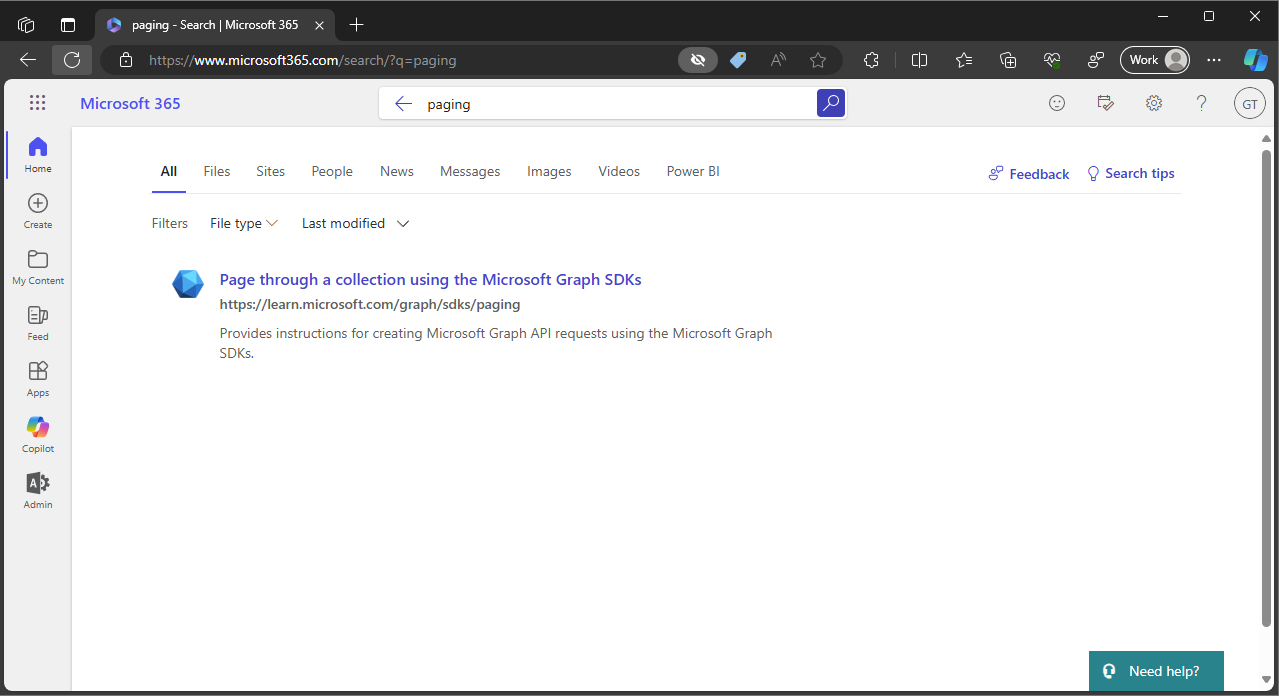
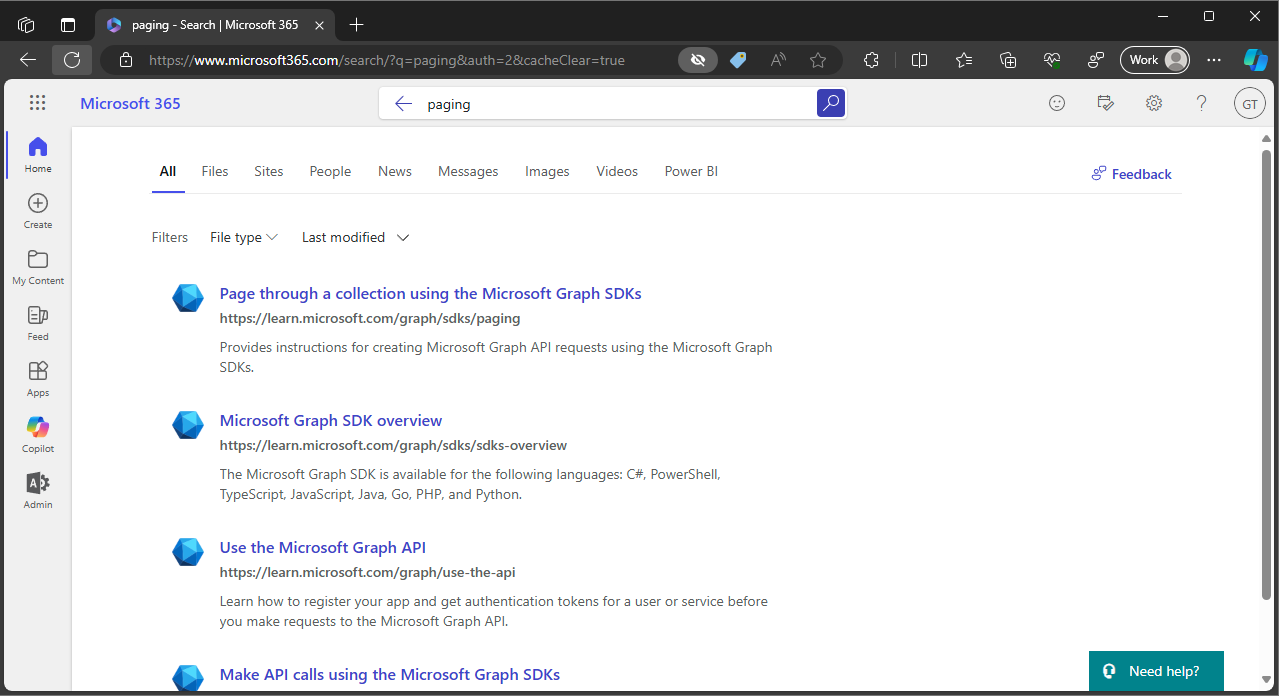
WIP

diff --git a/README.md b/README.md
@@ -1,0 +1,211 @@
+# Ingest markdown content from a custom API using C#, .NET and Teams Toolkit for Visual Studio
+
+## Summary
+
+This sample project uses Teams Toolkit for Visual Studio to simplify the process of creating a [Microsoft Graph connector](https://learn.microsoft.com/graph/connecting-external-content-connectors-overview) that ingests data from a custom API to Microsoft Graph. It provides an end to end example of creating the connector, ingesting content and refreshing the ingested content on a schedule. It also includes the [simplified admin experience](https://learn.microsoft.com/graph/connecting-external-content-deploy-teams) which means that admins can toggle the connector on and off from the Microsoft Teams admin center.
+
+![Markdown content from custom API displayed in Microsoft Search](./assets/content.png)
+
+## Contributors
+
+- [Waldek Mastykarz](https://github.com/waldekmastykarz)
+- [Garry Trinder](https://github.com/garrytrinder)
+
+## Version History
+
+Version|Date|Comments
+-------|----|--------
+1.0|May 1, 2023|Initial release
+
+## Prerequisites
+
+- [Teams Toolkit for Visual Studio](https://marketplace.visualstudio.com/items?itemName=TeamsDevApp.ms-teams-vscode-extension)
+- [Microsoft 365 Developer tenant](https://developer.microsoft.com/microsoft-365/dev-program) with [uploading custom apps enabled](https://learn.microsoft.com/microsoftteams/platform/m365-apps/prerequisites#prepare-a-developer-tenant-for-testing)
+
+## Minimal path to awesome
+
+## Simulated debugging with Dev Proxy
+
+### 1. Project setup
+
+- Clone repo
+
+### 2. Dev Proxy setup
+
+- [Install](https://learn.microsoft.com/microsoft-cloud/dev/dev-proxy/get-started#install-dev-proxy) Dev Proxy
+
+### 3. Start a debug session
+
+- Open the solution in Visual Studio
+- Press <kbd>F5</kbd> to start a debug session
+- Wait for the Azure Functions host to start (you will see errors in the debug terminal, this is expected)
+
+### 4. Start Dev Proxy and simulate webhook notification
+
+- Wait for the Azure Functions host to start (you will see errors in the debug terminal, this is expected)
+- Open a terminal, run `devproxy` to start Dev Proxy
+- Press <kbd>w</kbd> to simulate a webhook notification from Microsoft 365
+
+## Debug against a real Microsoft 365 tenant
+
+### 1. Project setup
+
+- Clone repo
+- Open solution in Visual Studio
+- Copy the contents of `env\samples` folder to `env`
+
+### 2. Create a Dev Tunnel
+
+- On the menu bar in Visual Studio, open the `View` menu.
+- Expand the `Other Windows` menu and select `Dev Tunnels`
+- In the Dev Tunnels panel, select `+` to open a dialog to create a new tunnel
+- In the dialog, enter the following and select `OK`
+  - **Account**: Use any Microsoft Entra ID, Microsoft, or GitHub account
+  - **Name**: GraphDocsConnector
+  - **Tunnel Type**: Persistent
+  - **Access**: Public
+- In the confirmation prompt, select `OK`
+
+### 3. Prepare Teams App Dependencies
+
+- In Solution Explorer, right-click the `GraphDocsConnector` Azure Functions project
+- Expand the `Teams Toolkit` menu and select `Prepare Teams App Dependencies`
+- When prompted, sign in to your Microsoft 365 tenant
+- Wait for all tasks to complete
+
+### 4. Start a debug session
+
+- Press <kbd>F5</kbd> to start a debug session
+- Wait for the Azure Functions host in the terminal window to start (you will see errors in the debug terminal, this is expected)
+
+### 5. Start Dev Proxy
+
+- Open a terminal, run `devproxy --config-file docuemntsapirc.json` to start Dev Proxy
+
+### 6. Enable Graph connector
+
+- In a web browser, navigate to the [Microsoft Teams Admin Center](https://admin.teams.microsoft.com)
+- Open the [Manage apps](https://admin.teams.microsoft.com/policies/manage-apps) section
+- In the table displaying `All apps`, search for `GraphDocsConnector-local`
+- Select the app in the table to open the app details page
+- Select `Publish` and confirm the prompt. You will been taken back to the `All apps` page and a confirmation banner will be displayed
+- Search for `GraphDocsConnector-local` and open the app details page
+- Select the `Graph Connector` tab
+- A banner will be displayed. Click `Grant permissions`, this will open a permissions consent page in a pop-up window. Confirm the permissions. This will automatically toggle the connection status to on and start the setup process which includes:
+  - creating an external connection
+  - provisioning the schema
+  - importing external content
+
+The process will take several minutes in total. During this time you may see an error message on this page, however this can be ignored and you can refresh the page to check on the status.
+
+> TIP: To monitor the activity check out the output of the Azure Functions host in the terminal window. You'll see the status of the different activities as they are completed.
+
+When the process is complete you will see a table confirming that the connection has been successful.
+
+![Simplified admin experience in Microsoft Teams admin center](./assets/tac.png)
+
+### 7. Include data in results
+
+- In the web browser navigate to the [Microsoft 365 admin center](https://admin.microsoft.com/)
+- From the side navigation, open [Settings > Search & Intelligence](https://admin.microsoft.com/?source=applauncher#/MicrosoftSearch)
+- On the page, navigate to the [Data Sources](https://admin.microsoft.com/?source=applauncher#/MicrosoftSearch/connectors) tab
+- A table will display available connections. In the **Required actions** column, select the link to **Include Connector Results** and confirm the prompt
+
+### 8. Refresh the Result Type template
+
+> There is a known issue whereby applying a result type programmatically results in a card that does not display correctly, so we need to apply the card in the user interface
+
+- In Visual Studio, open the `resultLayout.json` file and copy its contents to clipboard (<kdb>CTRL</kdb>+ <kbd>A</kbd> then <kbd>CTRL</kbd> + <kbd>C</kbd> on Windows, <kbd>CMD</kbd> + <kbd>A</kbd> then <kbd>CMD</kbd> + <kbd>C</kbd> on macOS)
+- In the web browser, in the Microsoft 365 admin center, navigate to the [Settings > Search & Intelligence](https://admin.microsoft.com/?source=applauncher#/MicrosoftSearch) area
+- Activate the [Customizations](https://admin.microsoft.com/?source=applauncher#/MicrosoftSearch/connectors) tab
+- Select the [Result Types](https://admin.microsoft.com/?source=applauncher#/MicrosoftSearch/resulttypes) page
+- In the table, check the box to select the `msgraphdocs` result type
+- On the command bar, select `Edit` to open the `msgraphdocs` side panel
+- In the `Result layout` section, underneath the text field, select `Edit` to open the `Design your layout` panel.
+- In the `Paste the JSON script that you created with Layout Designer` field, replace the contents of the field by pasting the contents of your clipboard (<kbd>CTRL</kbd> + <kbd>V</kbd> on Windows, <kbd>CMD</kbd> + <kbd>V</kbd> on macOS)
+- Confirm the changes by selecting `Next`
+- In the `Review the result type settings` panel, select `Update Result Type`
+- Wait a few minutes for the changes to be applied
+
+### 8. Test search
+
+- Navigate to [Microsoft365.com](https://www.microsoft365.com)
+- Enter `paging` into the search bar
+- Items will be shown from the data ingested by the Graph connector in the search results
+
+![Markdown content from custom API displayed in Microsoft Search](./assets/content.png)
+
+## Deploy to Azure
+
+### 1. Update custom API endpoint
+
+- Open Visual Studio
+- In `env` folder, open `.env.dev`
+- Update the `DOCUMENTS_API_URL` and `DOCUMENTS_API_SCOPES` with the details of your custom API
+
+### 2. Provision resources
+
+- In Solution Explorer, right-click the `GraphDocsConnector` Azure Functions project
+- Expand the `Teams Toolkit` menu and select `Provision in the cloud...`
+- In the `Provision` dialog, enter the following and select `Provision`
+  - **Account**: Select an account which is associated with an active subscription
+  - **Subscription**: Select an active subscription from the list
+  - **Resource group**: Select existing group from the list, or create a new group
+  - **Region**: Select a region suitable for your location from the list
+- In the warning prompt, select `Provision` to provision the resources
+
+### 3. Deploy code
+
+- In Solution Explorer, right-click the `GraphDocsConnector` Azure Functions project
+- Expand the `Teams Toolkit` menu and select `Deploy to the Cloud`
+- In the warning prompt, select `Deploy` to deploy the function code
+
+### 4. Enable Graph connector
+
+- In a web browser, navigate to the [Microsoft Teams Admin Center](https://admin.teams.microsoft.com)
+- Open the [Manage apps](https://admin.teams.microsoft.com/policies/manage-apps) section
+- In the table displaying `All apps`, search for `GraphDocsConnector-dev`
+- Select the app in the table to open the app details page
+- Select `Publish` and confirm the prompt. You will been taken back to the `All apps` page and a confirmation banner will be displayed
+- Search for `GraphDocsConnector-dev` and open the app details page
+- Select the `Graph Connector` tab
+- A banner will be displayed. Click `Grant permissions`, this will open a permissions consent page in a pop-up window. Confirm the permissions. This will automatically toggle the connection status to on and start the setup process which includes:
+  - creating an external connection
+  - provisioning the schema
+  - importing external content
+
+The process will take several minutes in total. During this time you may see an error message on this page, however this can be ignored and you can refresh the page to check on the status.
+
+When the process is complete you will see a table confirming that the connection has been successful.
+
+## Features
+
+This sample shows how to ingest data from a custom API into your Microsoft 365 tenant.
+
+The sample illustrates the following concepts:
+
+- simplify debugging and provisioning of resources with Teams Toolkit for Visual Studio
+- support the ability to toggle the connection status in the Microsoft Teams admin center
+- create external connection schema
+- support full ingestion of data
+- support incremental ingestion of data
+- support scheduled ingestion of data
+- support on-demand ingestion of data
+- support for removing deleted data
+- visualize the external content in search results using a custom Adaptive Card
+
+## Help
+
+We do not support samples, but this community is always willing to help, and we want to improve these samples. We use GitHub to track issues, which makes it easy for  community members to volunteer their time and help resolve issues.
+
+You can try looking at [issues related to this sample](https://github.com/pnp/graph-connectors-samples/issues?q=label%3A%22sample%3A%nodejs-typescript-food-catalog%22) to see if anybody else is having the same issues.
+
+If you encounter any issues using this sample, [create a new issue](https://github.com/pnp/graph-connectors-samples/issues/new).
+
+Finally, if you have an idea for improvement, [make a suggestion](https://github.com/pnp/graph-connectors-samples/issues/new).
+
+## Disclaimer
+
+**THIS CODE IS PROVIDED *AS IS* WITHOUT WARRANTY OF ANY KIND, EITHER EXPRESS OR IMPLIED, INCLUDING ANY IMPLIED WARRANTIES OF FITNESS FOR A PARTICULAR PURPOSE, MERCHANTABILITY, OR NON-INFRINGEMENT.**
+
+![](https://m365-visitor-stats.azurewebsites.net/SamplesGallery/pnp-graph-connector-dotnet-csharp-graphdocs)
